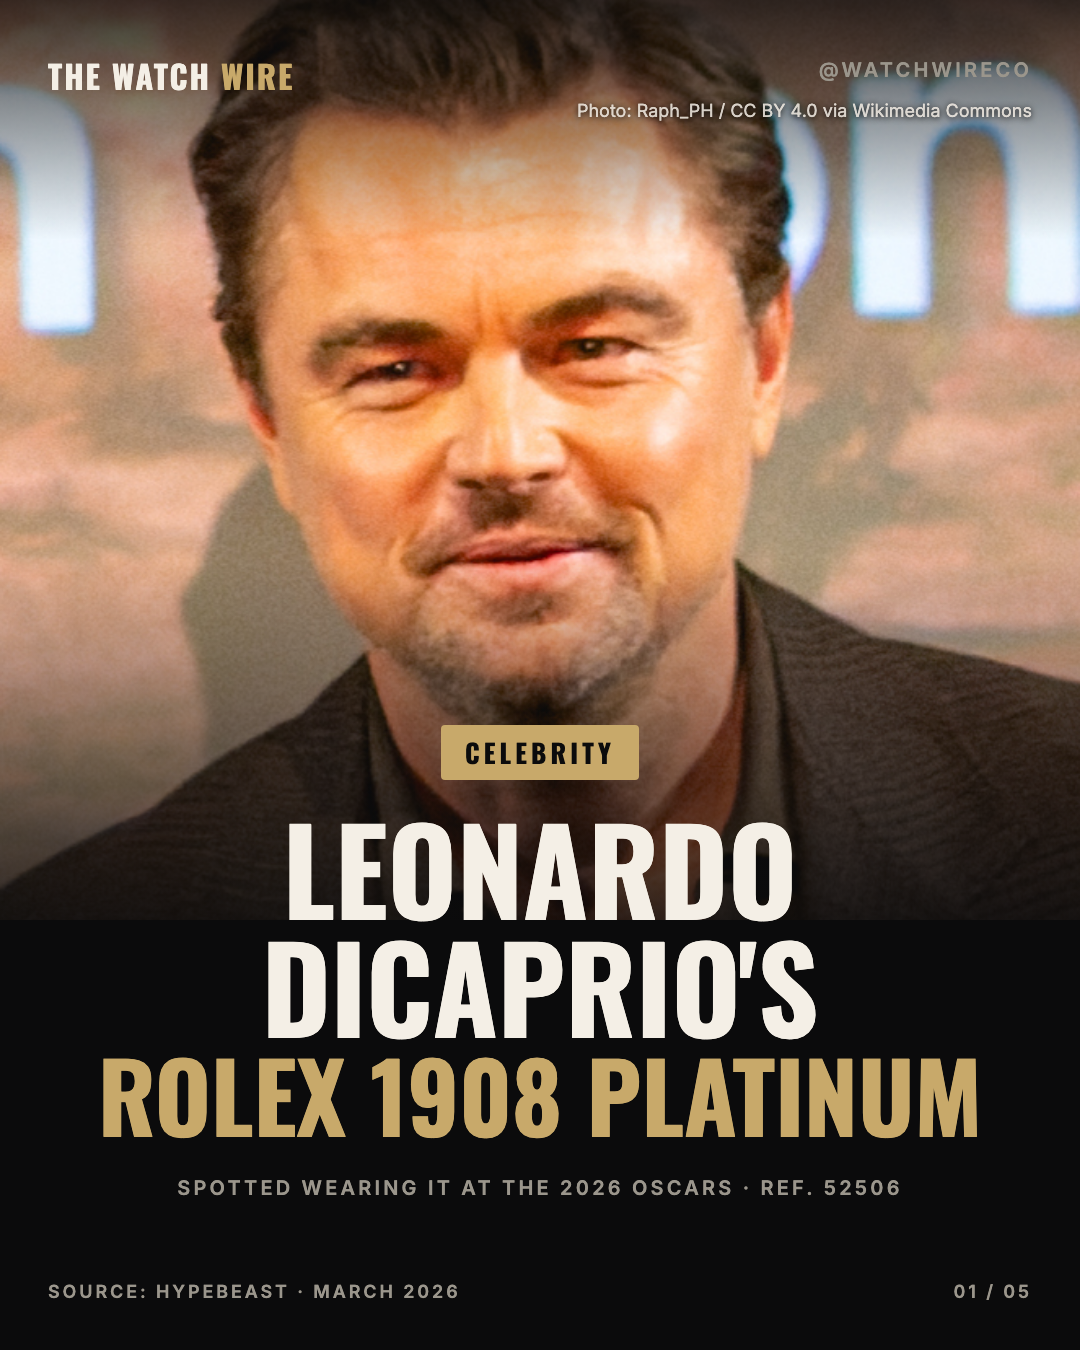
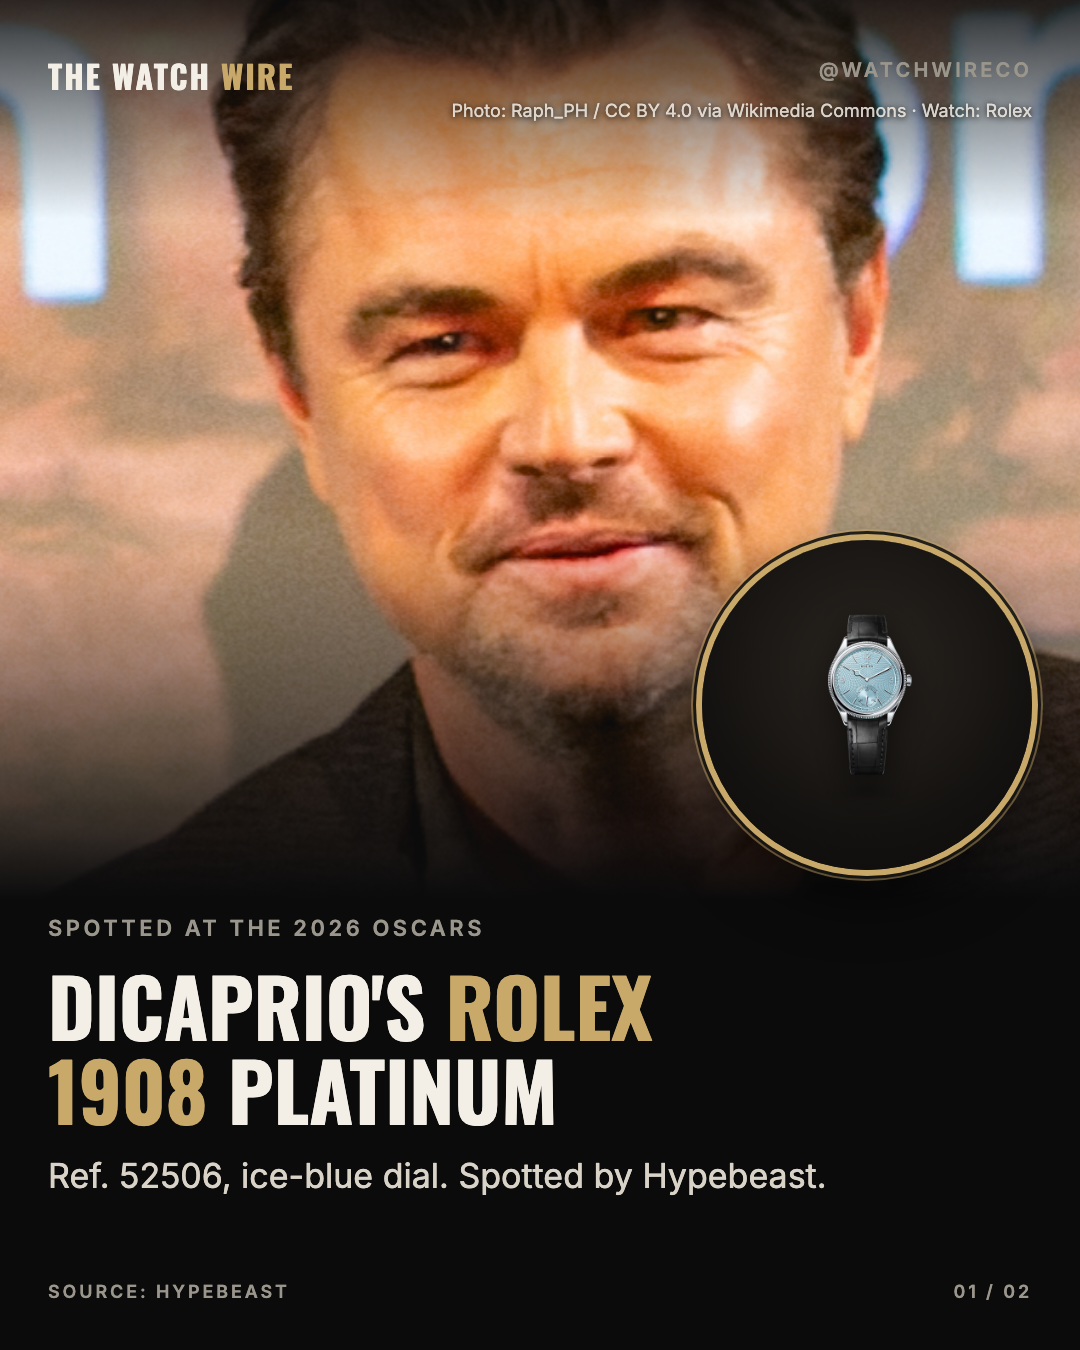
Celebrity photos: wrist shot when possible, else portrait + watch in gold circle (no arrow); DiCaprio re-done that way, posts 5:30pm NY

diff --git a/.claude/agents/watch-wire-editor.md b/.claude/agents/watch-wire-editor.md
@@ -80,11 +80,10 @@ the watch. Not every slide needs a photo. Every photo via PH with `--project <P>
   celebrity or a trusted outlet named it; else "appears to be". No usable photo of that celebrity after two
   tries → drop them and pick ANOTHER celebrity sighting (sports, red carpets, music, film; there are many).
   Celebrity posts do best (owner): keep switching celebrities; stop only after five have failed.
-  WRIST SHOT REQUIRED (owner, 2026-11-21): a celebrity sighting post needs a photo of THAT person WEARING
-  the watch, with rights: a brand ambassador/campaign or press photo from the brand (official), a free-licence
-  Wikimedia photo where the watch is visible, or a source in permissions.json. A face photo plus a separate watch
-  photo is not enough. No wrist shot → pick another celebrity (brand ambassadors are the easiest: brands publish
-  photos of them wearing the watch). Prediction posts ("what will Bond wear?") may use a face + the watch options.
+  Celebrity photos (owner, 2026-11-22): BEST is a rights-cleared photo of the person WEARING the watch (brand
+  ambassador/campaign/press photo, a free-licence Wikimedia photo showing the watch, or a source in permissions.json)
+  on an A-spotted slide with `wrist` set. If none exists, use their free-licence portrait on an A-spotted slide
+  WITHOUT `wrist`: the real watch sits in the gold circle, no arrow. Never point an arrow at a face.
   Celebrity shape (owner, 2026-11-21): cover (person) → WATCH SPOTLIGHT slide (the watch, 2-3 specs, price)
   → our take → a YOUR CALL slide that asks readers to act ("Wear it or pass? Comment WEAR or PASS") → cta.
   Never a slide that only hedges ("resale not checked", "prices may differ"); put caveats in the caption.

diff --git a/.claude/agents/watch-wire-approver.md b/.claude/agents/watch-wire-approver.md
@@ -47,8 +47,8 @@ Comparisons show both watches on the cover; no "e.g." anywhere.
    Each photo is in `assets/manifest.json` with rights `official` (brand/official-retailer
    image) or `licensed` (free licence), never `permission-needed`. The watch on each slide is
    the reference named (dial, bezel, case, bracelet, date) and the person is the one named.
-   Celebrity sighting posts must show the person WEARING the watch in a rights-cleared photo (owner,
-   2026-11-21); a face photo plus a separate watch photo → revise (pick another celebrity). Prediction posts are exempt.
+   Celebrity posts (owner, 2026-11-22): prefer the person WEARING the watch; if no rights-cleared wrist photo
+   exists, a portrait with the watch in the gold circle (A-spotted, no arrow) is fine. An arrow pointing at a face → revise.
    Celebrity watch named only if a brand, the celebrity or one trusted outlet named it,
    else "appears to be". Prices dated and from the brand or an official retailer.
 8. Caption matches the slides, names the source, no hype or emoji headline, paid links disclosed.

diff --git a/watch-wire-engine/state/owner-taste.md b/watch-wire-engine/state/owner-taste.md
@@ -25,3 +25,4 @@ approved), with the date and the reason. Newest at the top.
 - 2026-11-21: Owner overruled the two-outlet rule for celebrity posts: one trusted outlet reporting a celebrity wearing a watch is enough to post, credited by name. Owner wants celebrity posts; don't reject them for single sourcing.
 - 2026-11-21: Owner: celebrity posts do best. If a celebrity has no usable photo, pick another celebrity instead of giving up; a failed celebrity slot is refilled with another celebrity.
 - 2026-11-21: Owner on the DiCaprio post: a celebrity post must show the celebrity WEARING the watch, not just their face. Post held (no rights-cleared wrist photo exists). Prefer brand ambassadors (brands publish photos of them wearing the watch).
+- 2026-11-22: Owner: wrist photos where possible; otherwise a celebrity portrait with the watch in a gold circle (like the GTA posts) is fine. DiCaprio post re-done that way and scheduled 5:30pm.
